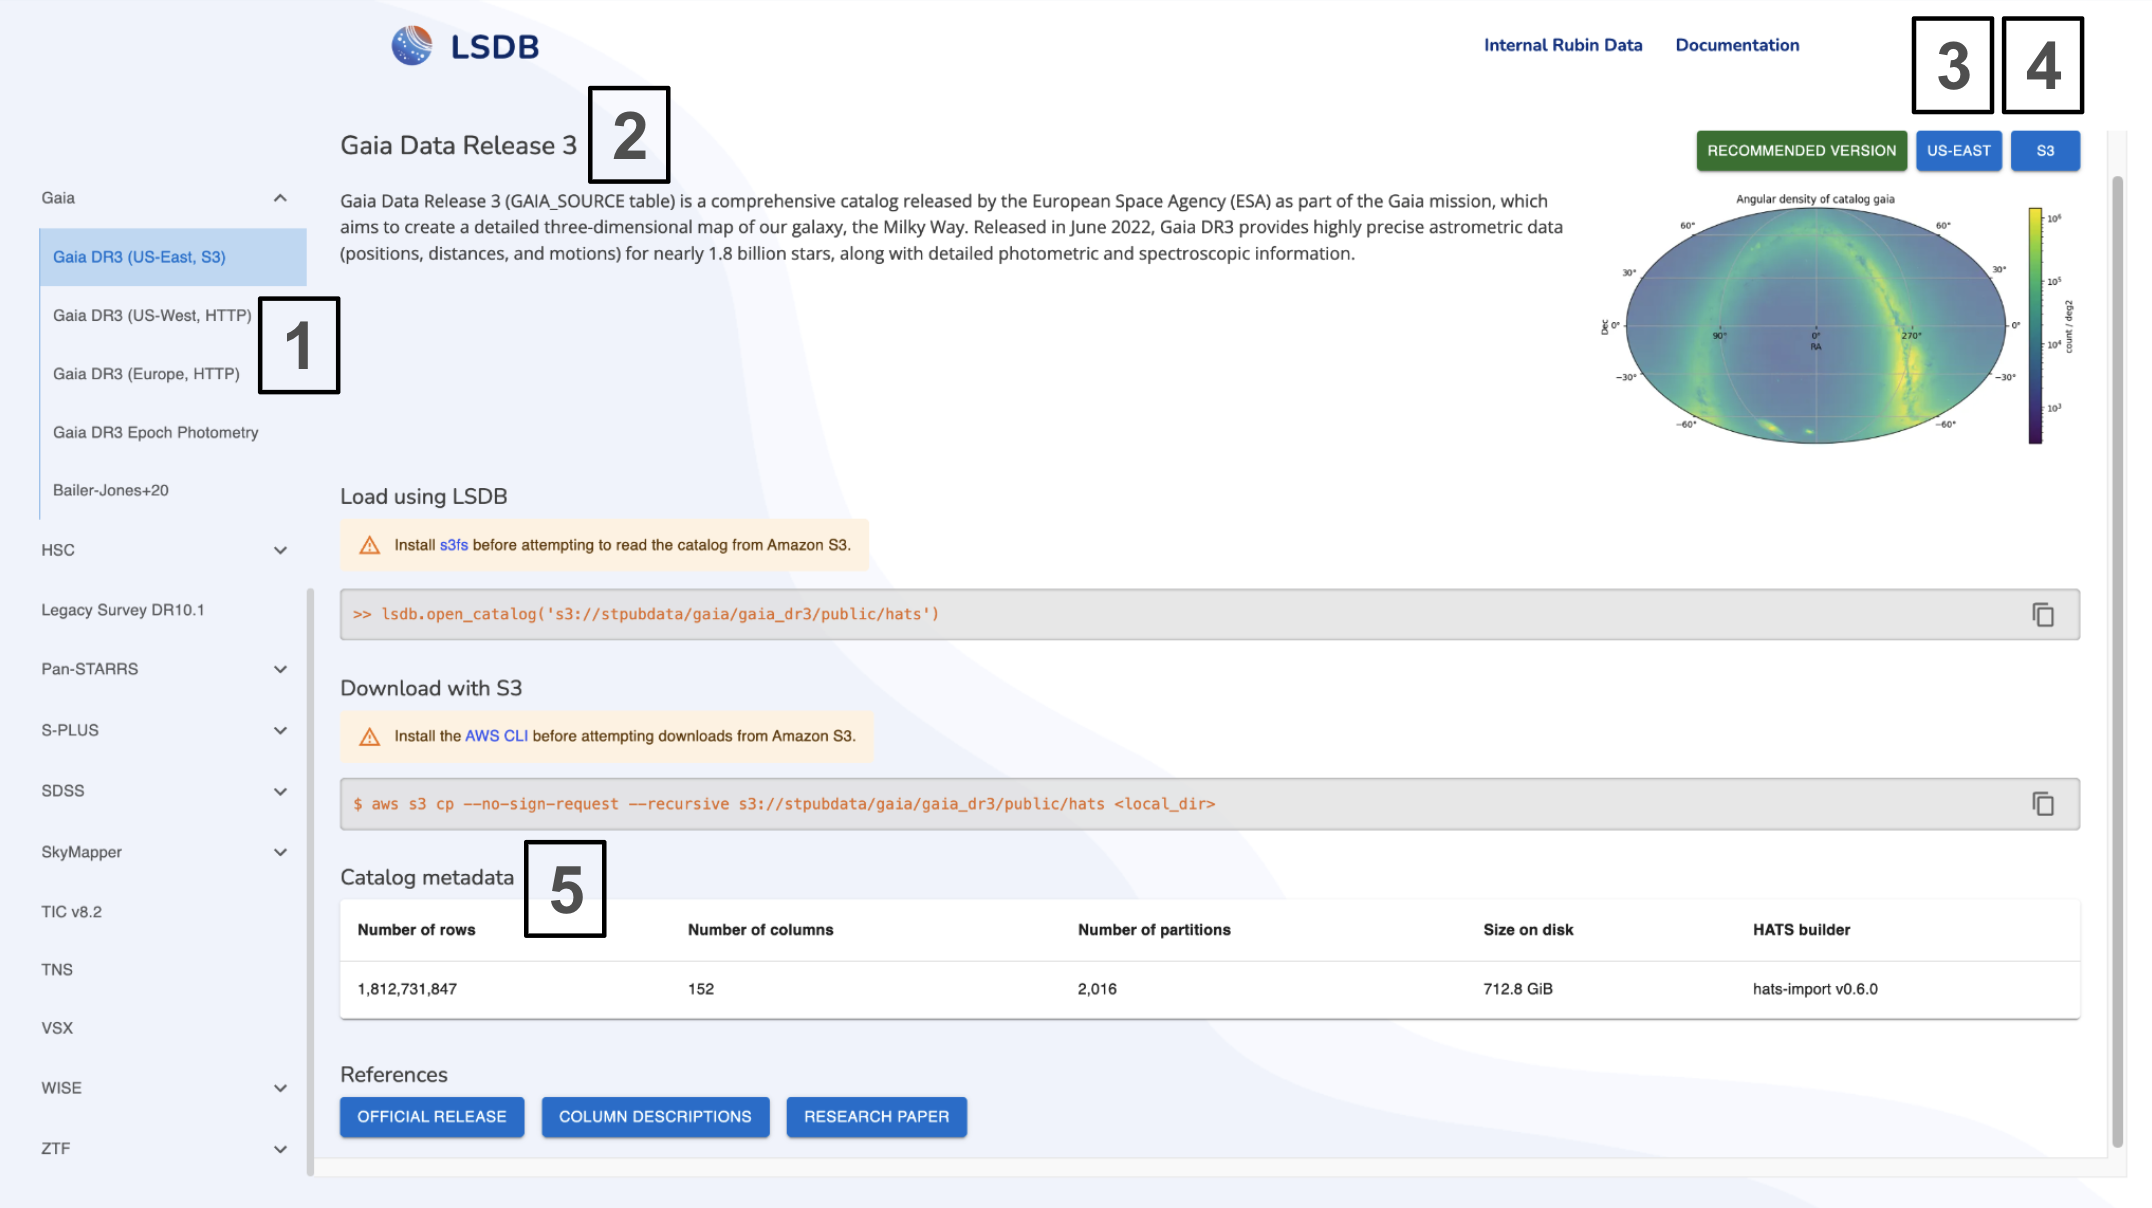
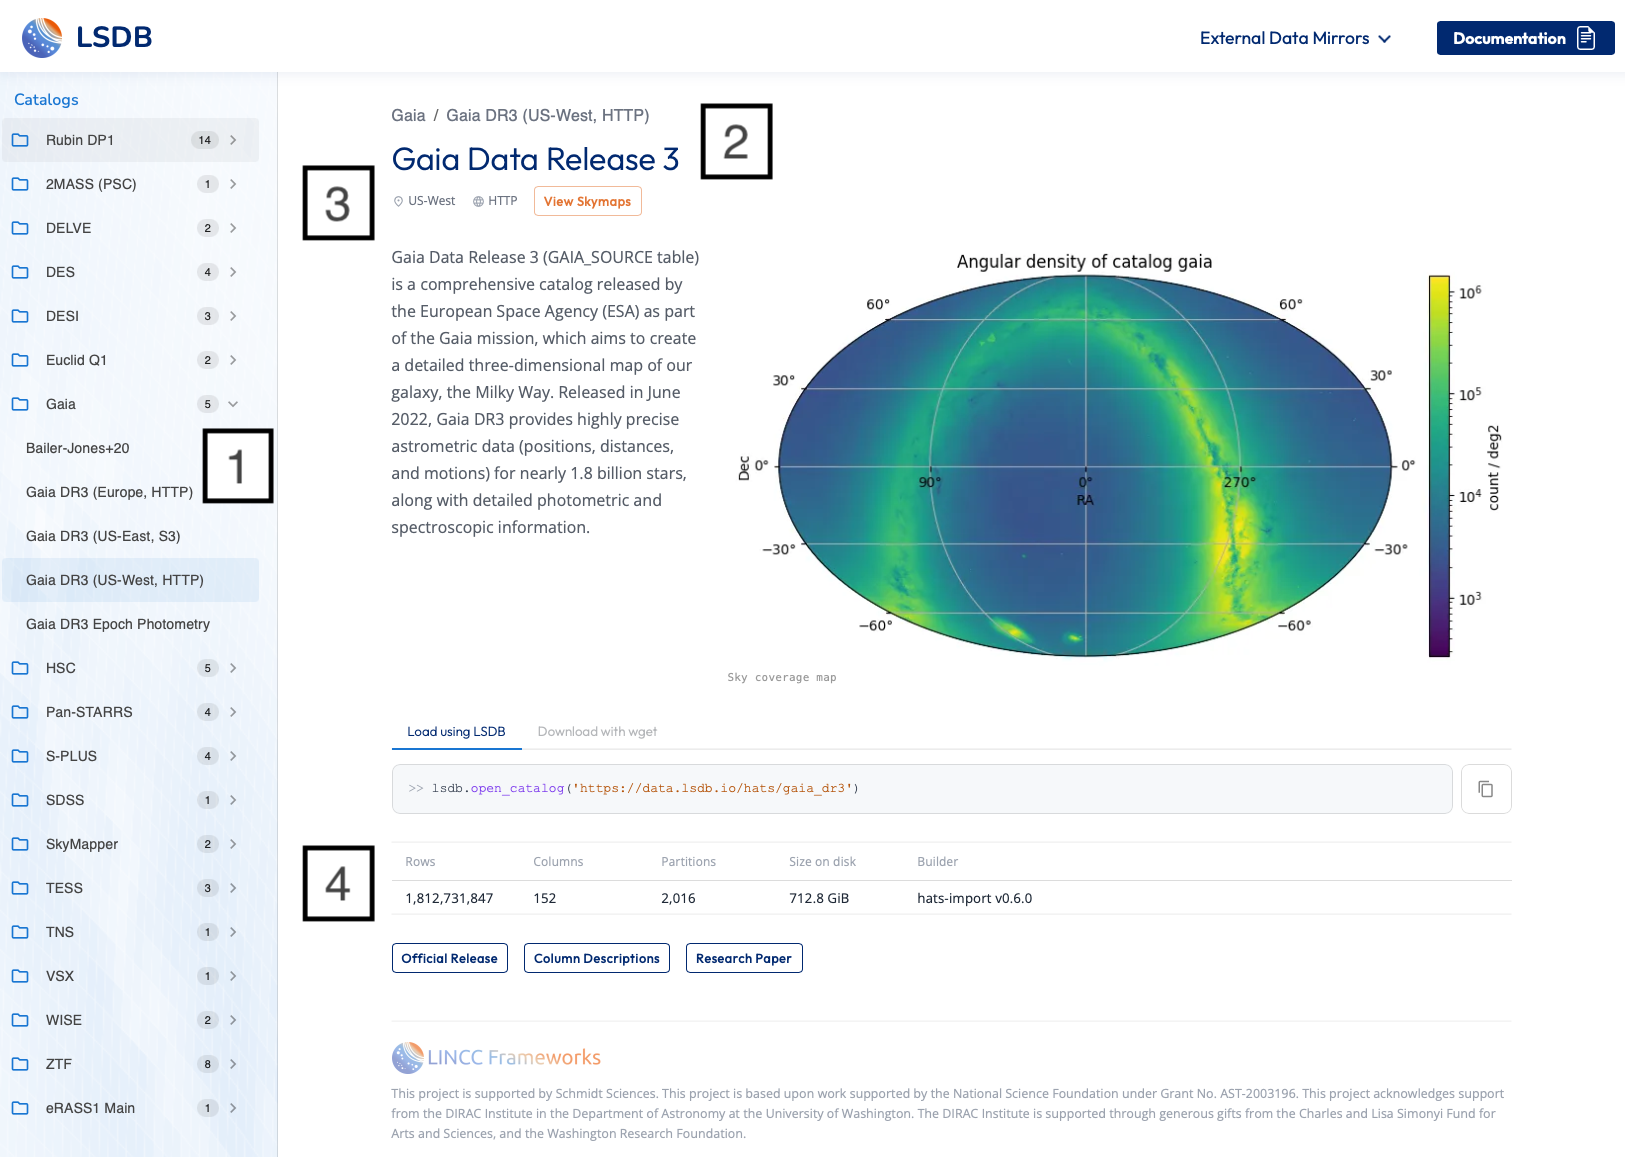
Update annotated image in Data Access page

diff --git a/docs/data-access/datalsdb.rst b/docs/data-access/datalsdb.rst
@@ -19,9 +19,8 @@ Let's consider the example Figure above and explain briefly the numbered callout
 
 1. **Catalog list:** the left sidebar that lets you browse catalogs and releases. If there are multiple providers of a given catalog, they will be grouped under the same catalog name, with different hosting regions and access methods indicated.
 2. **Catalog overview:** the title and description for the selected catalog, including the simplest way on how to access the data through LSDB and how to  download directly.
-3. **Region description:** describes the hosting region (for example, ``US-EAST``). See discussion below for details of various options.
-4. **Access type:** describes the access path, which are either ``S3`` or ``HTTP`` endpoints. See discussion below for details and more information is available in the :doc:`remote data access page <remote_data>`.
-5. **Catalog metadata:** summary table showing the number of rows, columns, partitions, size on disk and which version of HATS builder or pipeline was used to create the catalog. See discussion about versioning below for details.
+3. **Region and access type:** describes the hosting region (for example, ``US-EAST``) and the access path, which are either ``S3`` or ``HTTP`` endpoints. See discussion below for details of various options. More information is available in the :doc:`remote data access page <remote_data>`.
+4. **Catalog metadata:** summary table showing the number of rows, columns, partitions, size on disk and which version of HATS builder or pipeline was used to create the catalog. See discussion about versioning below for details.
 
 
 Region description and access type

diff --git a/README.md b/README.md
@@ -1,4 +1,4 @@
-<img src="https://github.com/astronomy-commons/lsdb/blob/main/docs/lincc-logo.png?raw=true" width="300" height="100">
+<img src="https://github.com/astronomy-commons/lsdb/blob/main/docs/lincc-logo.png?raw=true" width="300">
 
 
 # LSDB